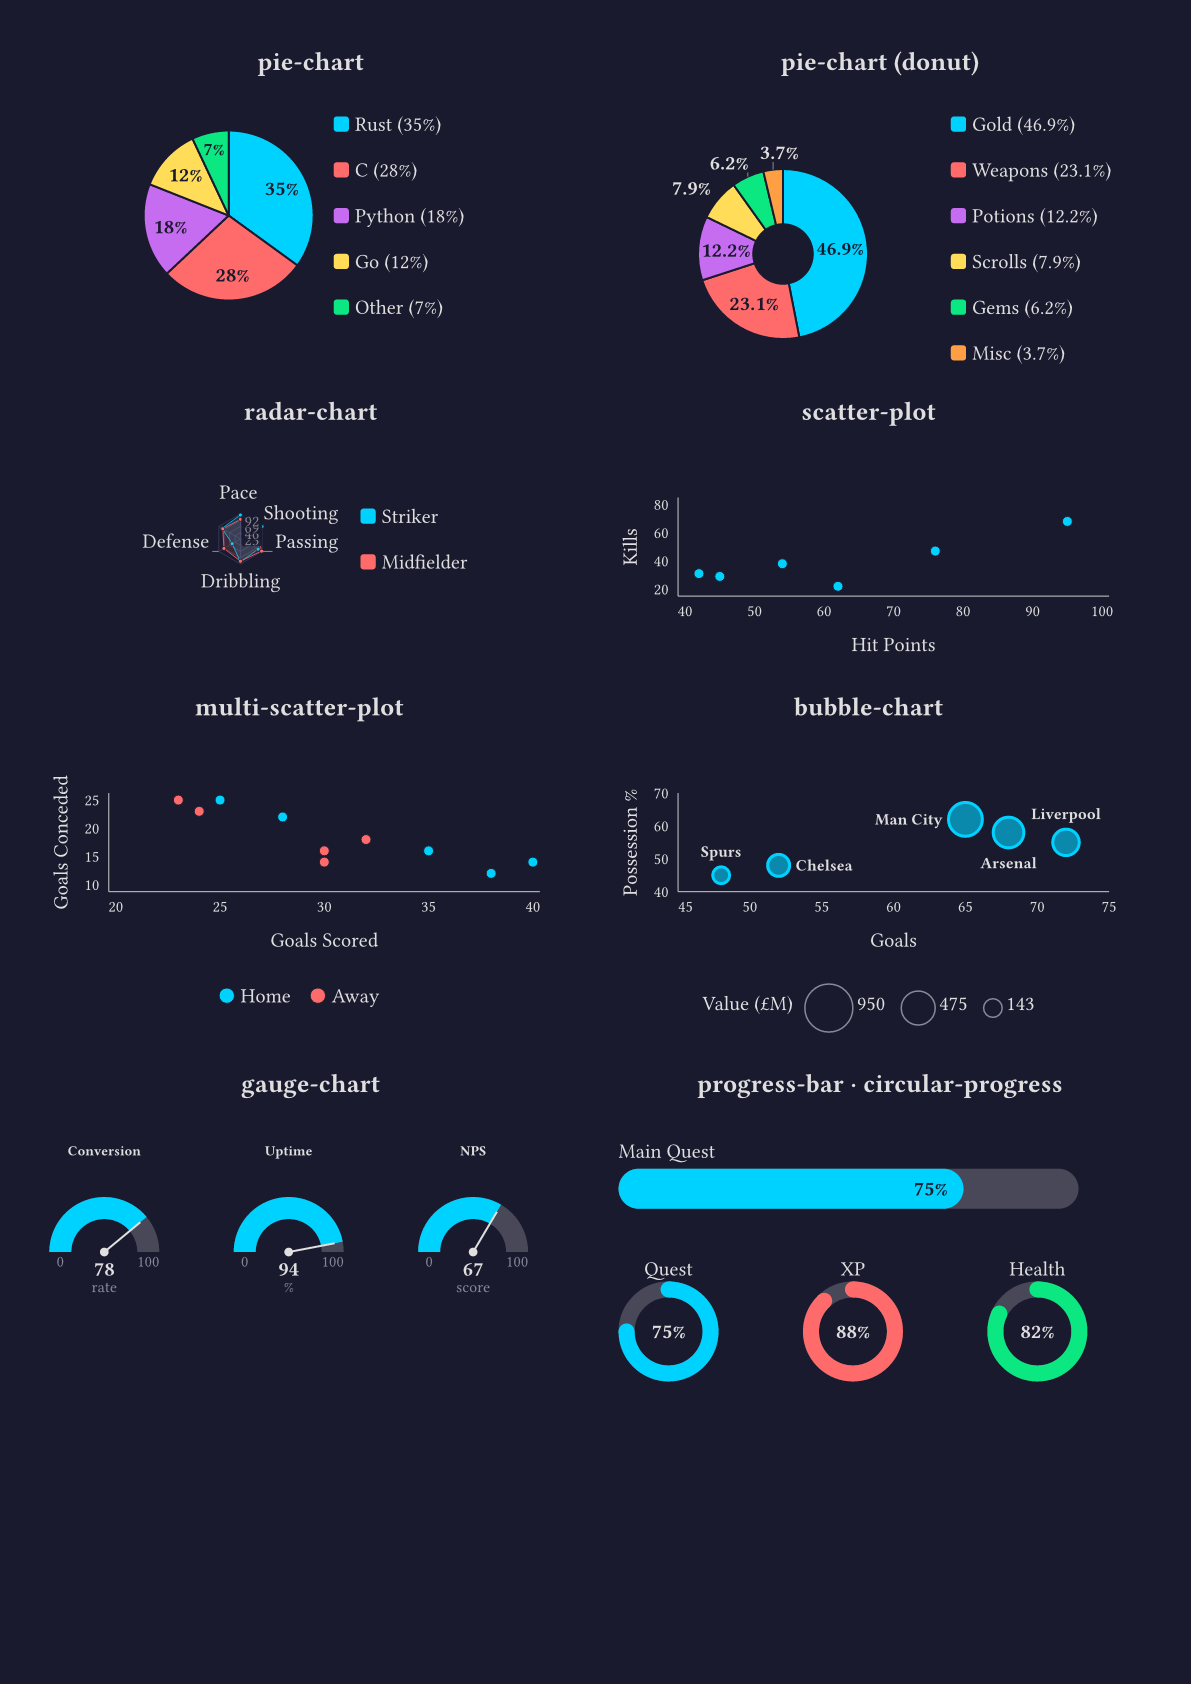
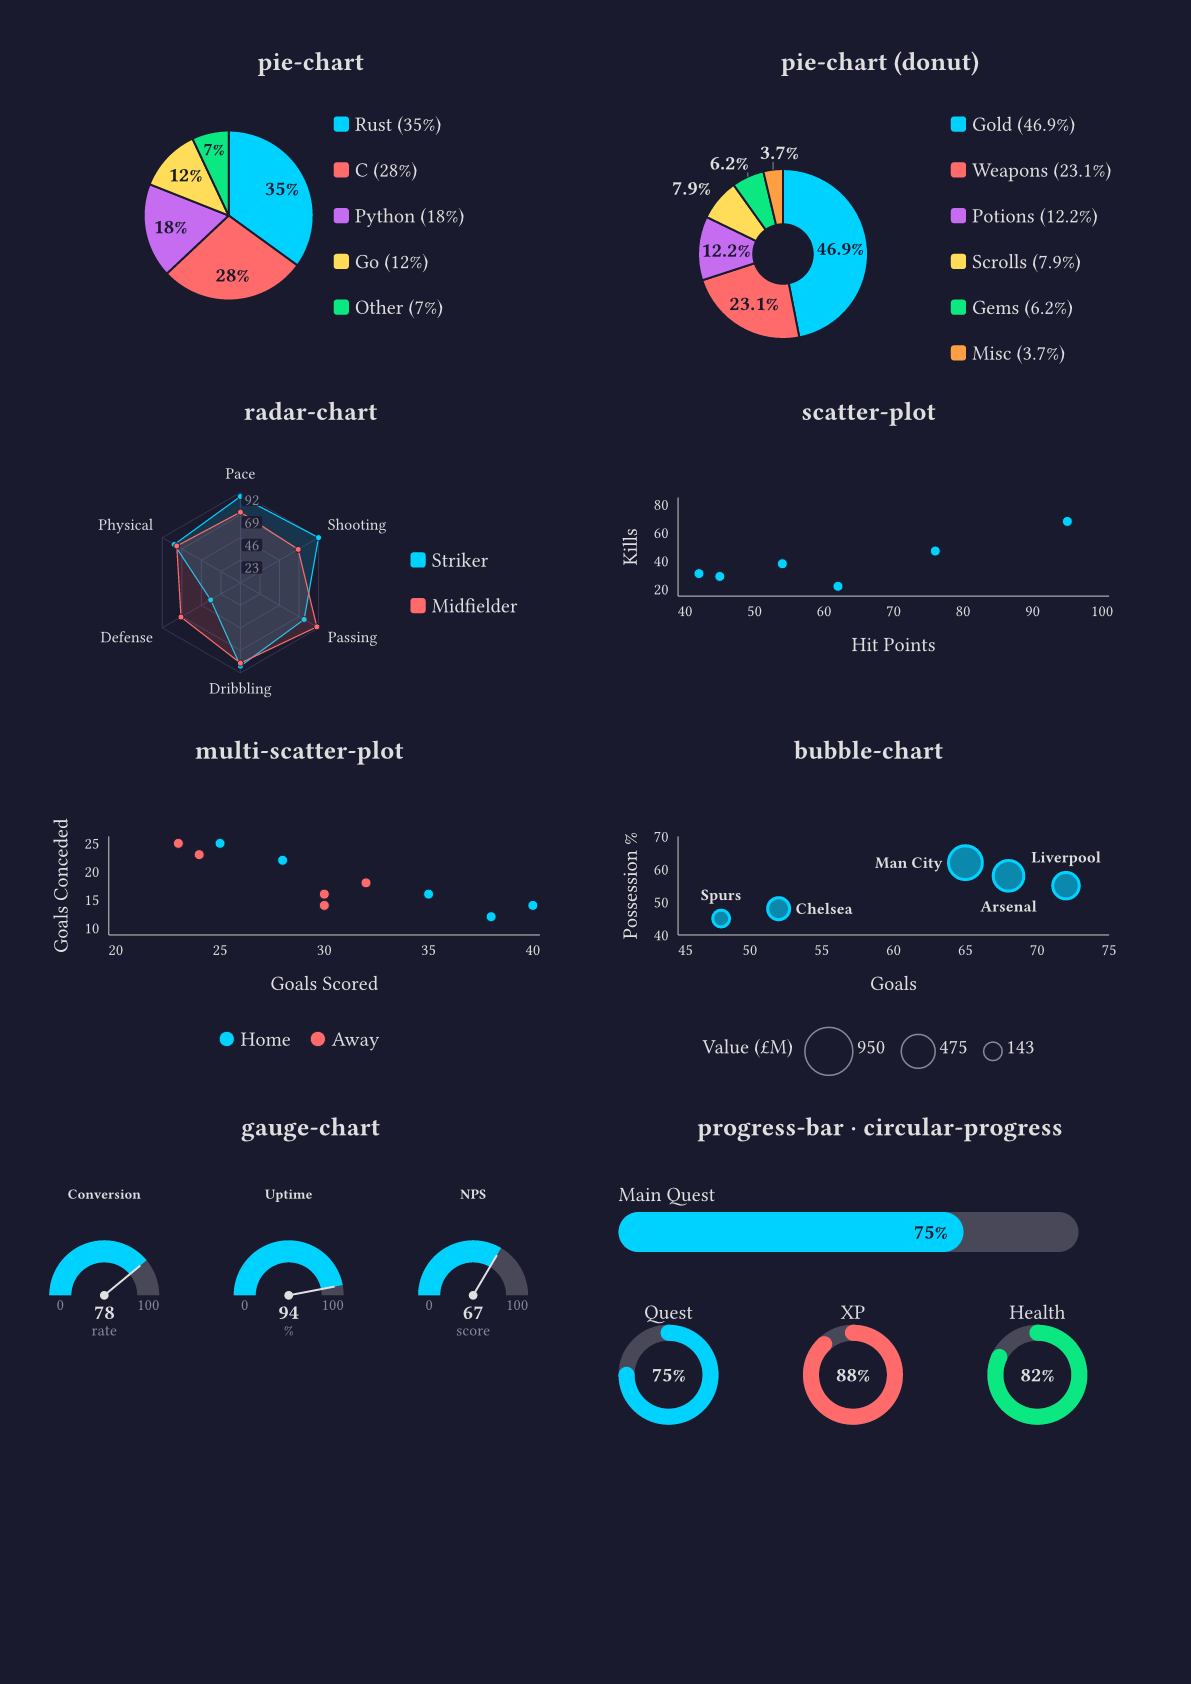
fix(radar): a small chart gets smaller axis labels, not a small plot
The label size steps down from the legend size to the theme's
category-label-min-size until the plot fills at least 0.3 of the box; the
scale numbers follow it (never larger than the axis names) and skip every
other ring when four would touch. Showcase: radar at 150pt, sunburst, violin
and timeline trimmed so page 6 holds its four rows (8 pages again, as the
README says), README showcase alt texts match the pages.

diff --git a/README.md b/README.md
@@ -11,15 +11,14 @@ A charting library for [Typst](https://github.com/typst/typst) built entirely wi
 
 All 50+ chart types across 8 pages — see [`examples/showcase.typ`](examples/showcase.typ) for the source:
 
-![Showcase: bar, line, area, pie, radar, and scatter chart variations](screenshots/showcase/showcase-1.png)
-![Showcase: gauges, progress indicators, dual-axis, histogram, waterfall, funnel, box-plot, and heatmap charts](screenshots/showcase/showcase-2.png)
-![Showcase: calendar heatmap, treemap, sankey, lollipop, diverging, slope, and bullet charts](screenshots/showcase/showcase-3.png)
-![Showcase: grouped-stacked bars, gantt, waffle, bump, dumbbell, radial-bar, and sunburst charts](screenshots/showcase/showcase-4.png)
-![Showcase: violin plot, timeline, parliament, and chord diagram](screenshots/showcase/showcase-5.png)
-![Showcase: dashboard components including metric cards, alerts, badges, and compact tables](screenshots/showcase/showcase-6.png)
-![Showcase: additional chart layouts and variations](screenshots/showcase/showcase-7.png)
-![Showcase: golden-ratio φ-scaling demo with bar and line charts at 0.5×, 1×, and 2× base size](screenshots/showcase/showcase-8.png)
-![Showcase: full-page word cloud of data visualization vocabulary](screenshots/showcase/showcase-9.png)
+![Showcase: bar, horizontal bar, grouped bar, stacked bar, line, multi-line, area, and stacked area charts](screenshots/showcase/showcase-1.png)
+![Showcase: pie, donut, radar, scatter, multi-scatter, bubble, gauge, progress-bar, and circular-progress charts](screenshots/showcase/showcase-2.png)
+![Showcase: ring progress, dual-axis, histogram, waterfall, funnel, box-plot, heatmap, and correlation-matrix charts](screenshots/showcase/showcase-3.png)
+![Showcase: calendar heatmap, progress bars, sparklines, treemap, sankey, lollipop, horizontal lollipop, and diverging bar charts](screenshots/showcase/showcase-4.png)
+![Showcase: slope, bullet, grouped-stacked bar, gantt, waffle, bump, dumbbell, and radial-bar charts](screenshots/showcase/showcase-5.png)
+![Showcase: sunburst, metric cards, violin plot, timeline, parliament, chord diagram, and dashboard components (card, table, alert, badge)](screenshots/showcase/showcase-6.png)
+![Showcase: golden-ratio φ-scaling demo with bar and line charts at 0.5×, 1×, and 2× base size](screenshots/showcase/showcase-7.png)
+![Showcase: full-page word cloud of data visualization vocabulary](screenshots/showcase/showcase-8.png)
 
 ## Examples
 
